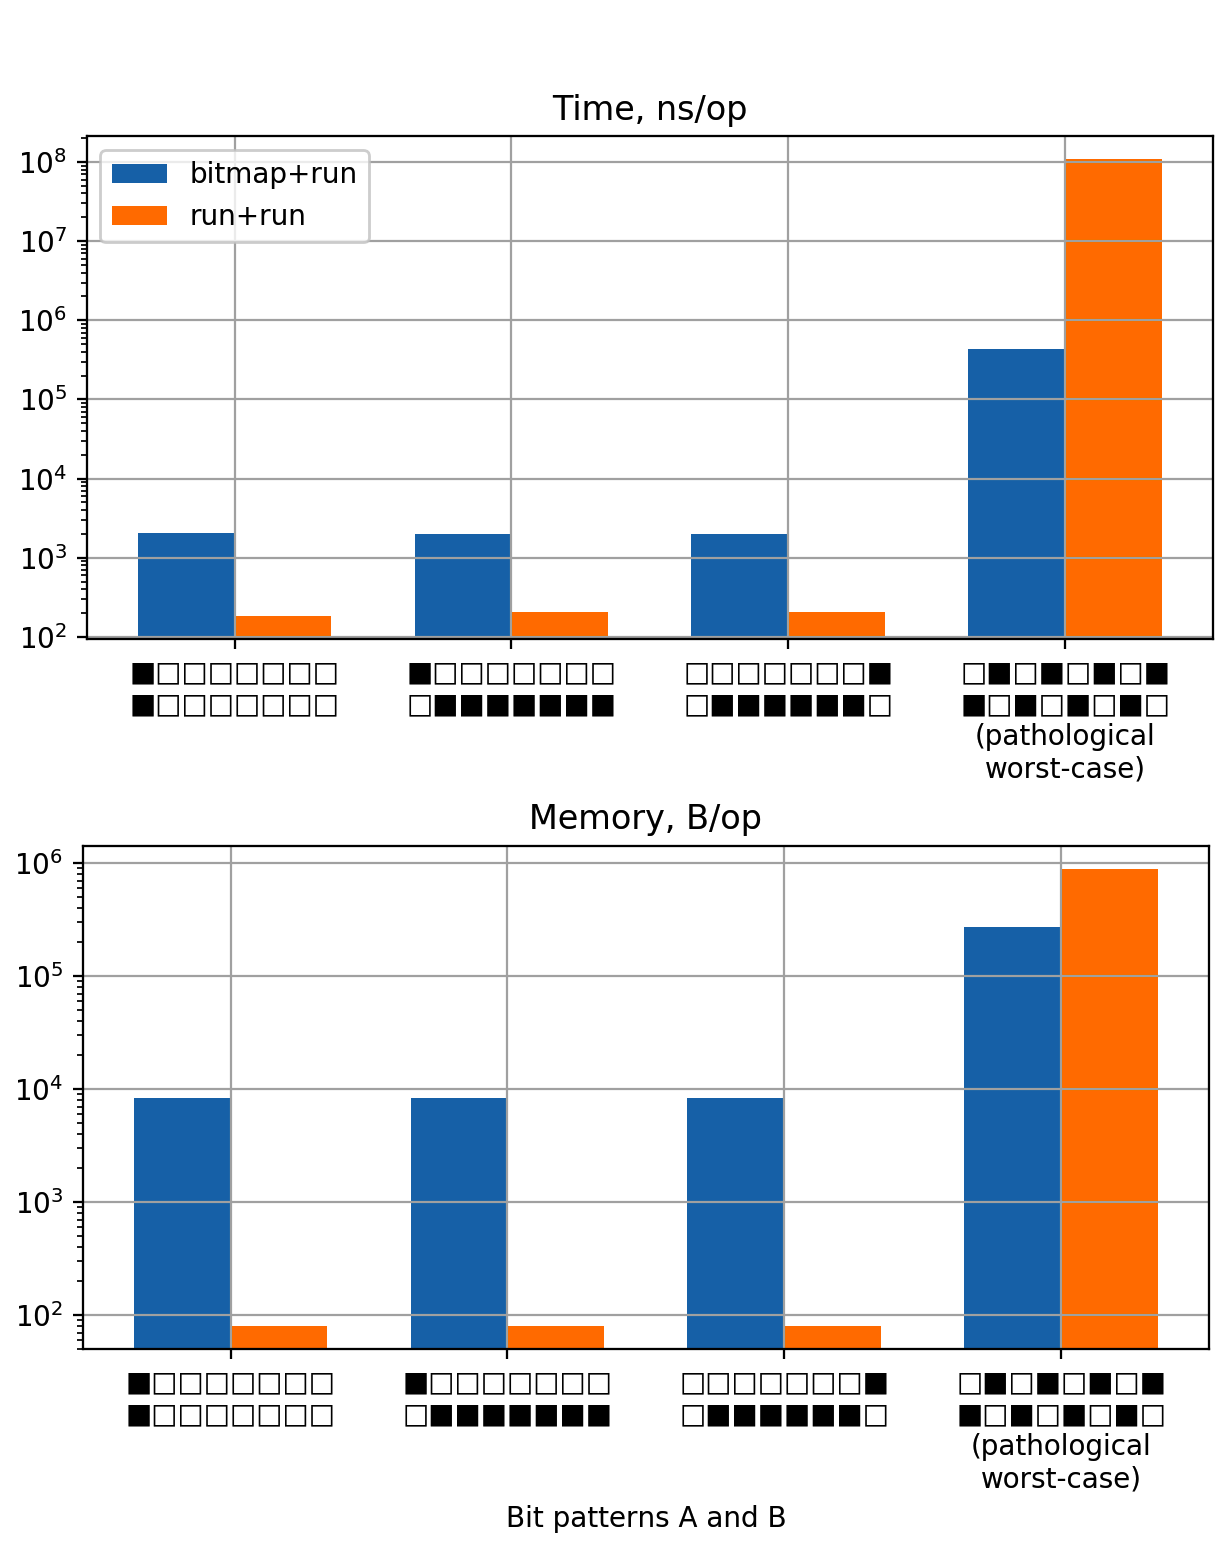
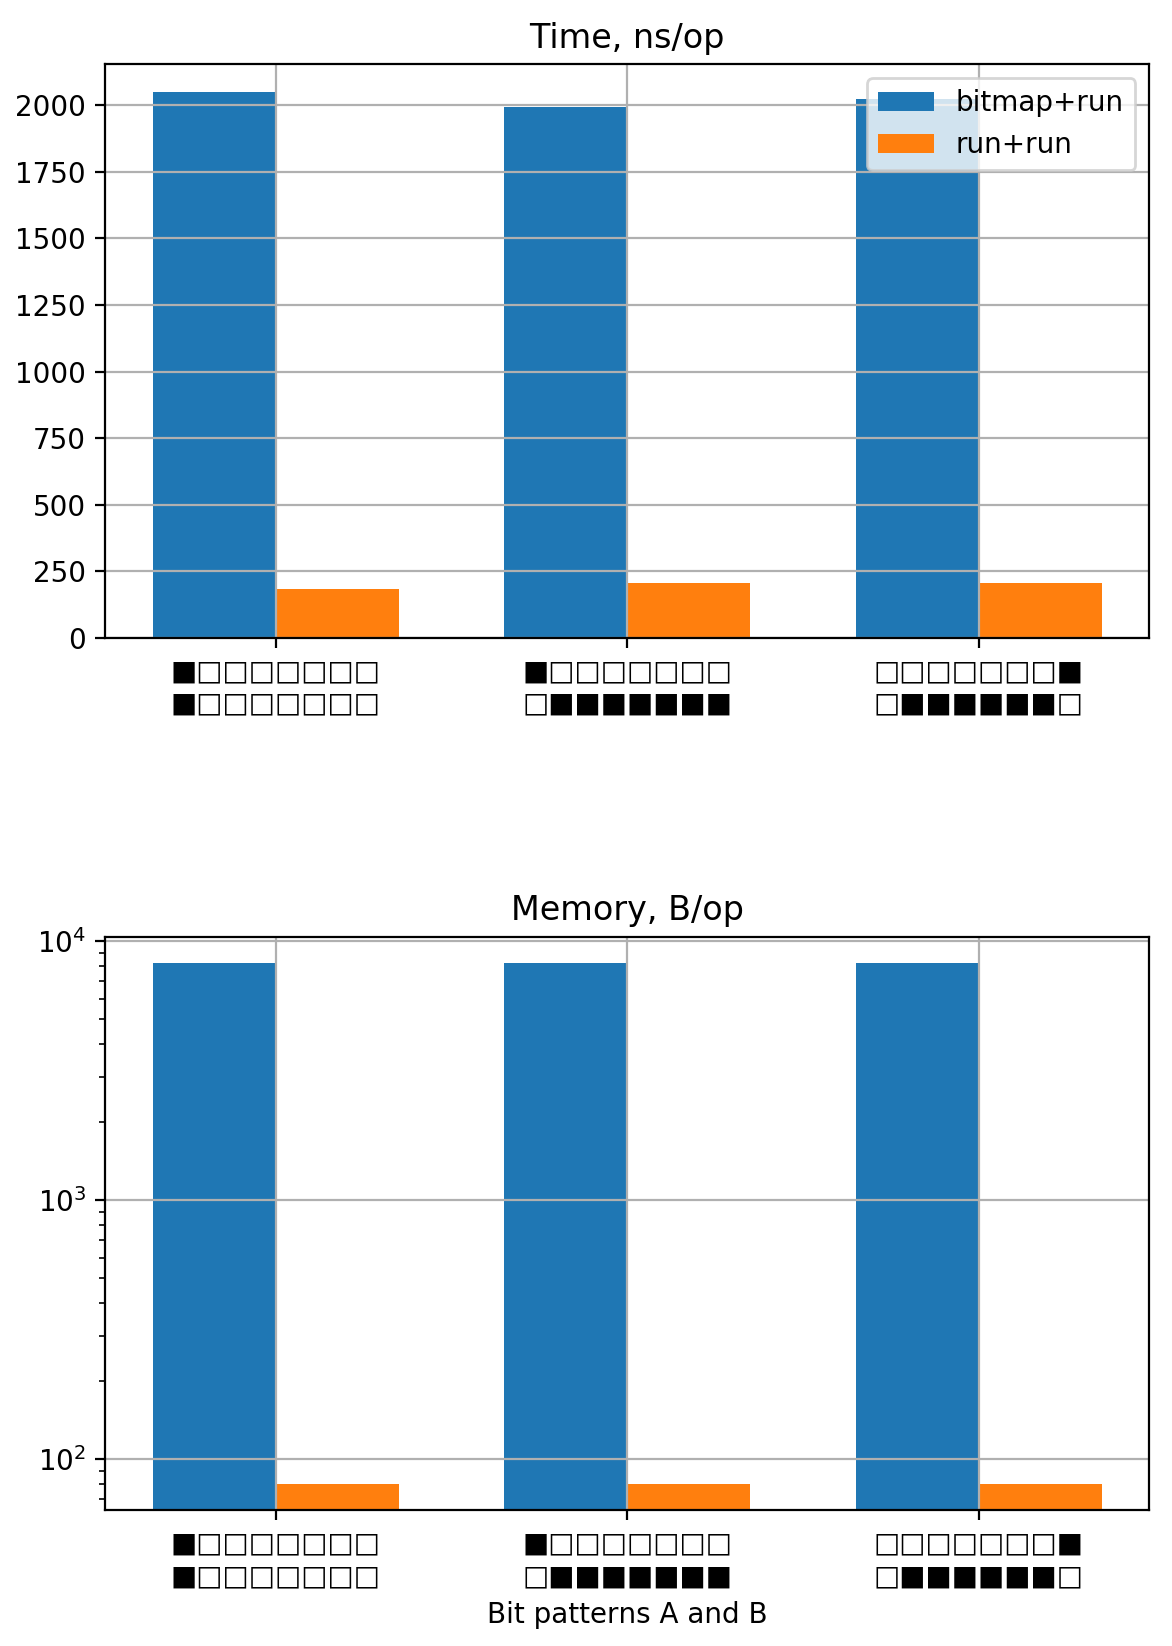
Remove unrealistic test case

diff --git a/content/blog/marginal-performance-improvements.md b/content/blog/marginal-performance-improvements.md
@@ -68,9 +68,9 @@ Fortunately, [Kuba](https://github.com/kuba--) stepped in with a much-improved t
 
 ## The Results
 
-Below is a chart comparing performance before and after adding `unionRunRunInPlace`. Each test case is described with a schematic representation of a bitmap: ■□□□□□□□ represents a bitmap with only the first bit set. The fourth case, a union of "all even bits" with "all odd bits", demonstrates the worst case. This is truly pathological: not only does this kind of pattern almost never happen in practice, but the specific bit pattern of "**all** even bits" is not logically possible in Roaring Bitmaps; the bitmap would be converted to a different, more efficient container type. In practice, we find that *run containers* often contain a small number of runs, so we expect the first three of these cases to be representative of real-world behavior.
+Below is a chart comparing performance before and after adding `unionRunRunInPlace`. Each test case is described with a schematic representation of a bitmap: ■□□□□□□□ represents a bitmap with only the first bit set. Other patterns were also tested, and some cases showed worse performance, but generally they were so pathological as to be meaningless (for example, bit patterns that would never be maintained in *run containers* due to inefficiency). In practice, we find that *run containers* often contain a small number of runs, so we expect these cases to be representative of real-world behavior.
 
 ![Performance Improvement](/img/blog/marginal-performance-improvements/performance-chart.png)
 *Performance Improvement*
 
-In short, the performance improvement was fantastic: an order of magnitude faster, and two orders of magnitude less memory usage. This doesn't look like a "marginal improvement," you might say. That's true, for this case in itself. As just one of five union-in-place functions, and one of 23 in-place functions, the overall effect on general query performance is tempered somewhat. Still, we're proud of the progress.
+In short, the performance improvement was consistent and fantastic: an order of magnitude faster, and two orders of magnitude less memory usage. This doesn't look like a "marginal improvement," you might say. That's true, for this case in itself. As just one of five union-in-place functions, and one of 23 in-place functions, the overall effect on general query performance is tempered somewhat. Still, we're proud of the progress.
